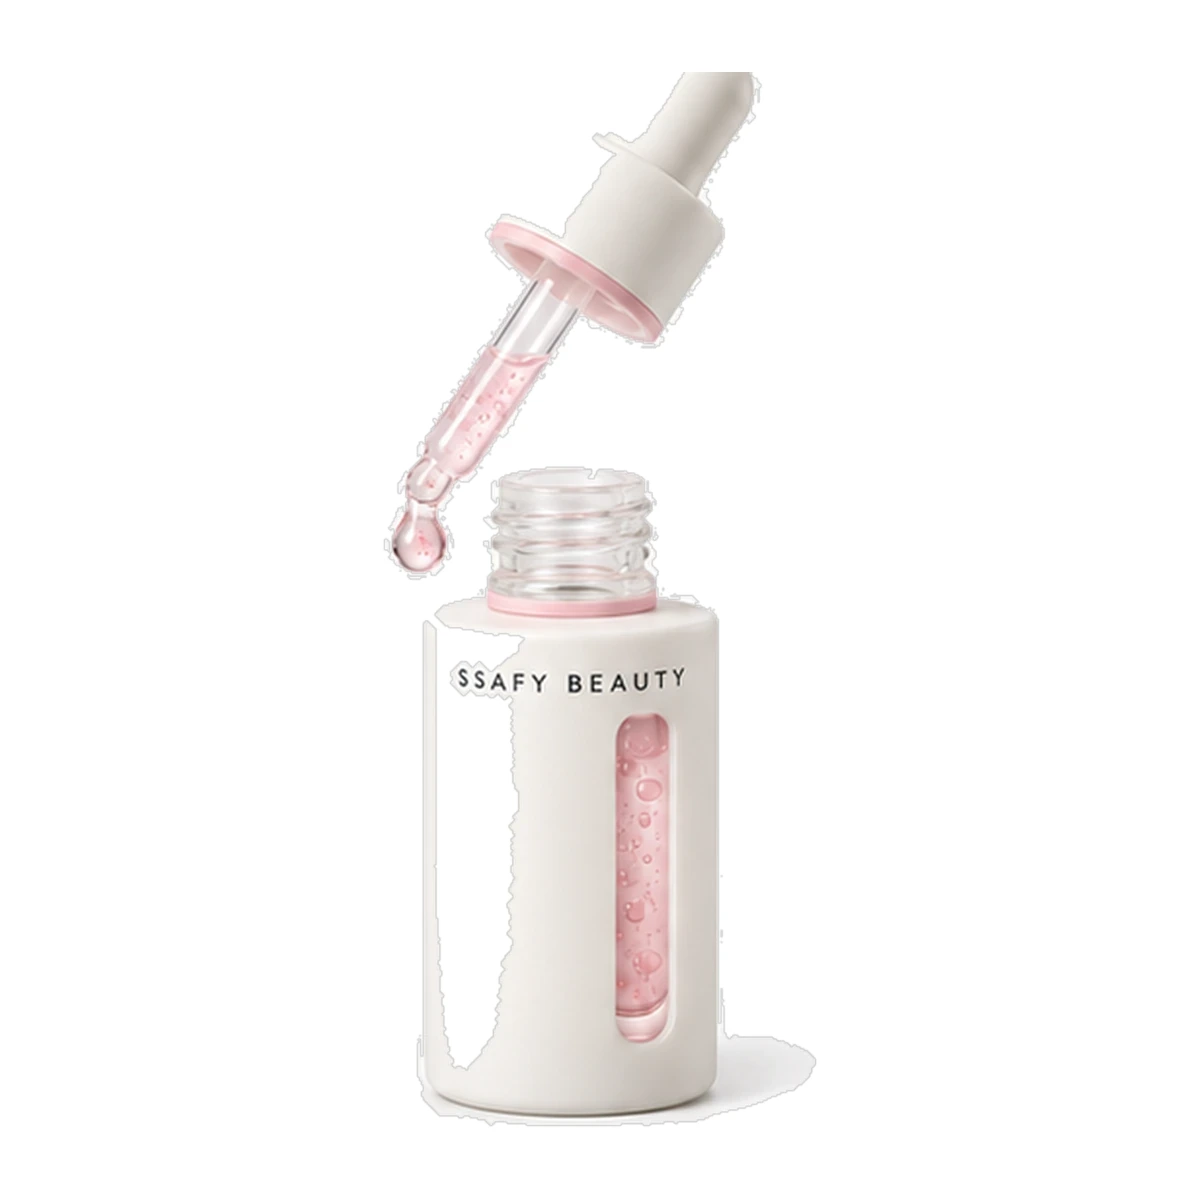
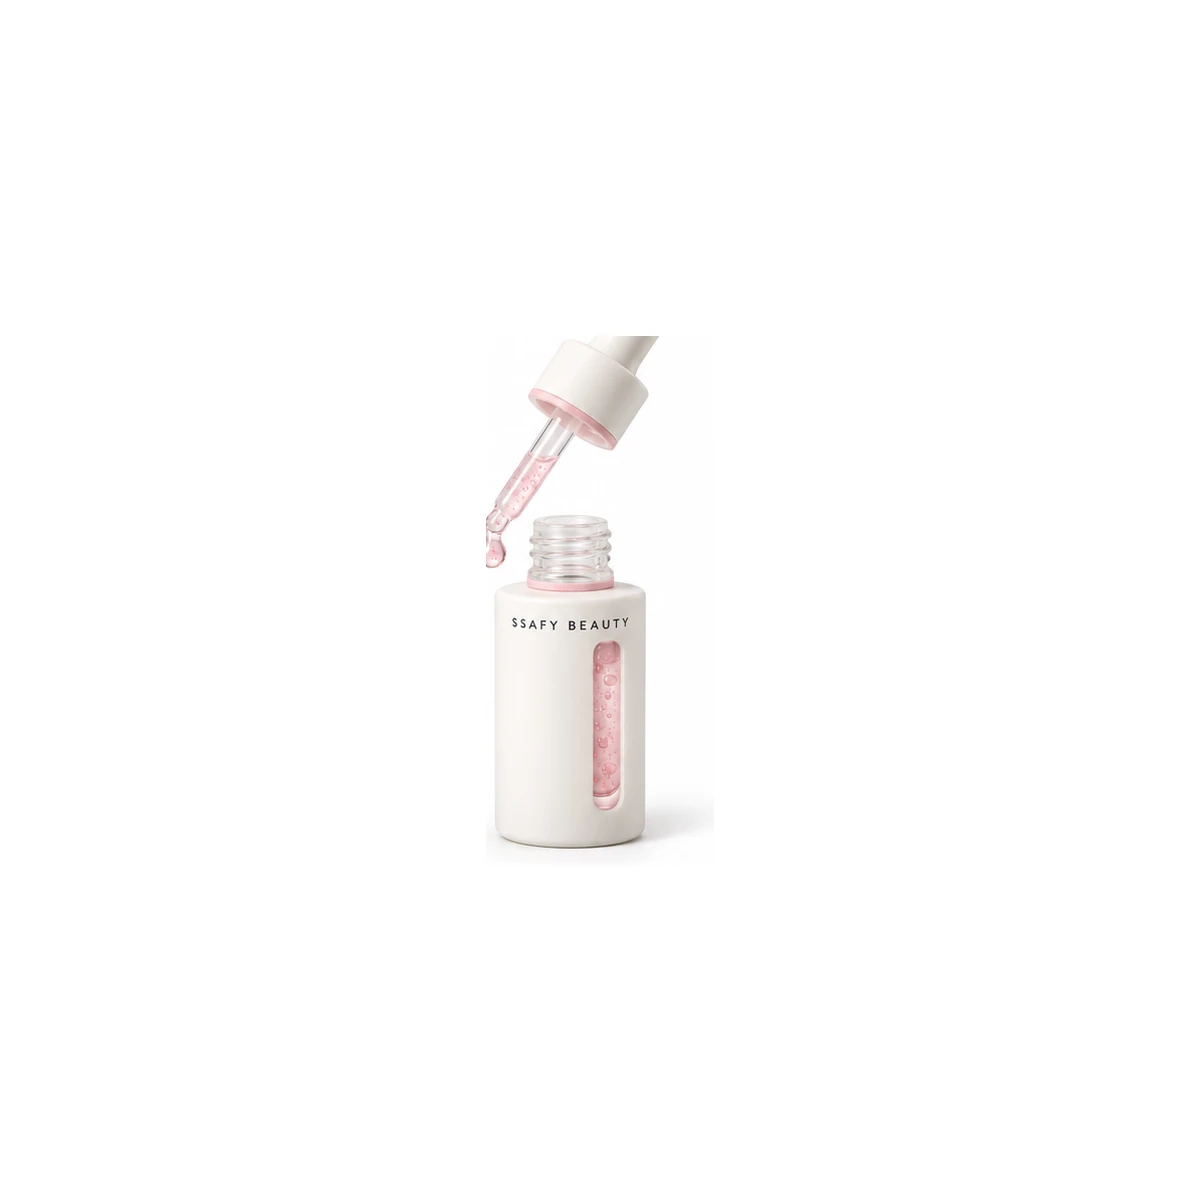
fix(fe): 마스터 컷 16장 복구 · 슬라이스에서 넘어온 조각을 걸러낸다
누끼로 구멍 난 상품 컷(m1·m3)을 그리드 원본에서 다시 잘라 넣었다. 8종 × 2컷
16장이고 전부 1200×1200 이다. 제형 컷(m2)은 멀쩡해서 건드리지 않았다.

넘어온 조각 걸러내기
  4등분만 하면 이웃 칸 제품이 경계를 넘어온 조각까지 딸려온다 — SB000002-m3 에
  옆 칸 토닝 패드 조각이 왼쪽에 남았다. 그렇다고 "가장 큰 덩어리만" 남기면 안 된다.
  토닝 패드 컷은 뚜껑·용기·패드가 따로 떨어진 세 덩어리이고 셋 다 제품이다.

  구분선은 칸 경계에 잘렸는가다. 넘어온 조각은 칸 가장자리에서 끊겨 있고 제 소품은
  칸 안에 온전히 들어 있다. 그래서 가장자리에 닿은 덩어리는 버리되 가장 큰 덩어리는
  남긴다 — 제품 본체가 가장자리에 닿는 컷도 있다.

  라벨링에 scipy.ndimage 를 쓰고 없으면 예전처럼 통째 경계로 폴백한다.

  SB000001-m3 의 뚜껑·용기·패드 세 덩어리가 다 남고 SB000002-m3 의 패드 조각이
  사라진 것을 눈으로 확인했다.

그리드 원본은 .gitignore 의 data/ 규칙에 걸려 올라가지 않는다. 결과물만 커밋된다.

Changed region(s): [[0.3083, 0.0617, 0.6475, 0.9558]]

diff --git a/frontend/scripts/slice_master_grid.py b/frontend/scripts/slice_master_grid.py
@@ -60,15 +60,66 @@ GRIDS = {
 
 
 def product_box(tile):
-    """제품이 실제로 차지하는 사각형. 흰 배경만 걷어낸다."""
+    """제품이 실제로 차지하는 사각형. 흰 배경만 걷어낸다.
+
+    단순 `getbbox()` 로는 부족하다. 그리드에서 이웃 칸 제품이 4등분 경계를 넘어오면
+    그 조각까지 경계에 들어간다 (SB000002-m3 에 옆 칸 토닝 패드 조각이 딸려왔다).
+    그렇다고 "가장 큰 덩어리만" 남기면 안 된다 — 토닝 패드 컷은 뚜껑·용기·패드가
+    **따로 떨어진 세 덩어리**이고 셋 다 제품이다.
+
+    구분선은 **칸 경계에 잘렸는가** 다. 넘어온 조각은 칸 가장자리에서 끊겨 있고,
+    제 소품은 칸 안에 온전히 들어 있다. 그래서 가장자리에 닿은 덩어리는 버리되,
+    가장 큰 덩어리는 남긴다 (제품 본체가 가장자리에 닿는 컷도 있다).
+    """
     gray = tile.convert("L")
     # 밝은 곳을 0, 제품을 255 로 뒤집어야 getbbox() 가 제품을 잡는다
     mask = gray.point(lambda v: 0 if v >= WHITE_CUTOFF else 255)
+
+    box = _box_without_bleed(mask)
+    if box is not None:
+        return box
+
     box = mask.getbbox()
     if box is None:
         # 칸이 통째로 비었다. 자르지 말고 그대로 넘긴다
         return (0, 0, tile.width, tile.height)
     return box
+
+
+def _box_without_bleed(mask):
+    """넘어온 조각을 뺀 경계. 라벨링을 못 하면 None 을 돌려 호출부가 폴백한다."""
+    try:
+        import numpy as np
+        from scipy import ndimage
+    except ImportError:
+        # scipy 가 없으면 조각을 못 가린다. 예전처럼 통째 경계로 간다
+        return None
+
+    arr = np.array(mask) > 0
+    labels, count = ndimage.label(arr)
+    if count == 0:
+        return None
+
+    sizes = ndimage.sum(arr, labels, range(1, count + 1))
+    biggest = int(sizes.argmax()) + 1
+    h, w = arr.shape
+
+    keep = np.zeros_like(arr)
+    for lab in range(1, count + 1):
+        blob = labels == lab
+        if lab != biggest:
+            ys, xs = blob.nonzero()
+            touches_edge = (
+                ys.min() == 0 or xs.min() == 0 or ys.max() == h - 1 or xs.max() == w - 1
+            )
+            if touches_edge:
+                continue
+        keep |= blob
+
+    ys, xs = keep.nonzero()
+    if len(ys) == 0:
+        return None
+    return (int(xs.min()), int(ys.min()), int(xs.max()) + 1, int(ys.max()) + 1)
 
 
 def place(tile):
